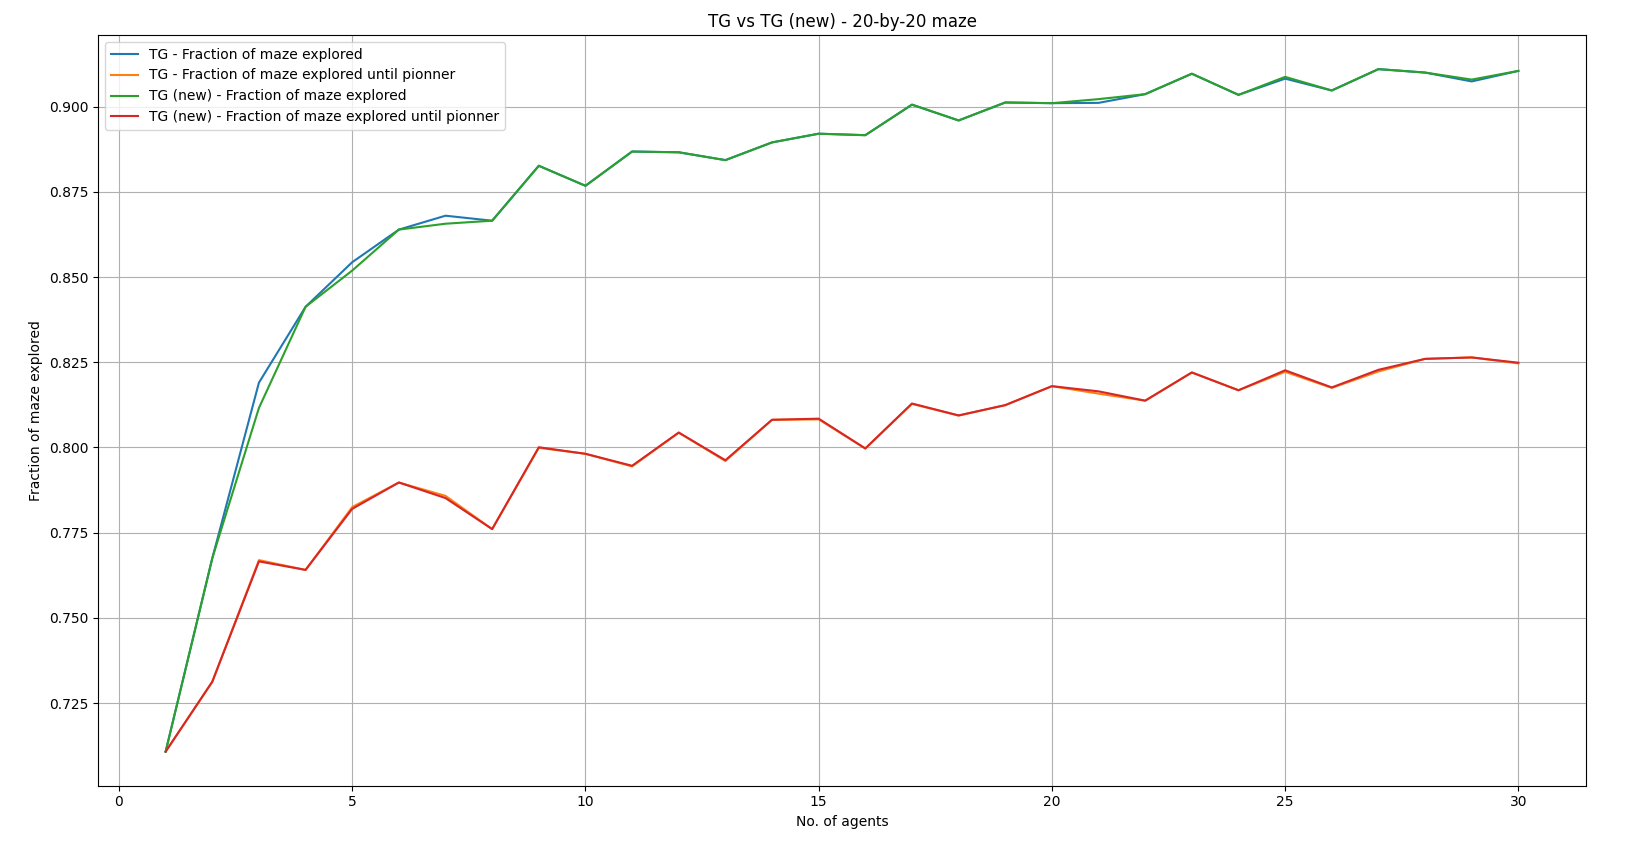
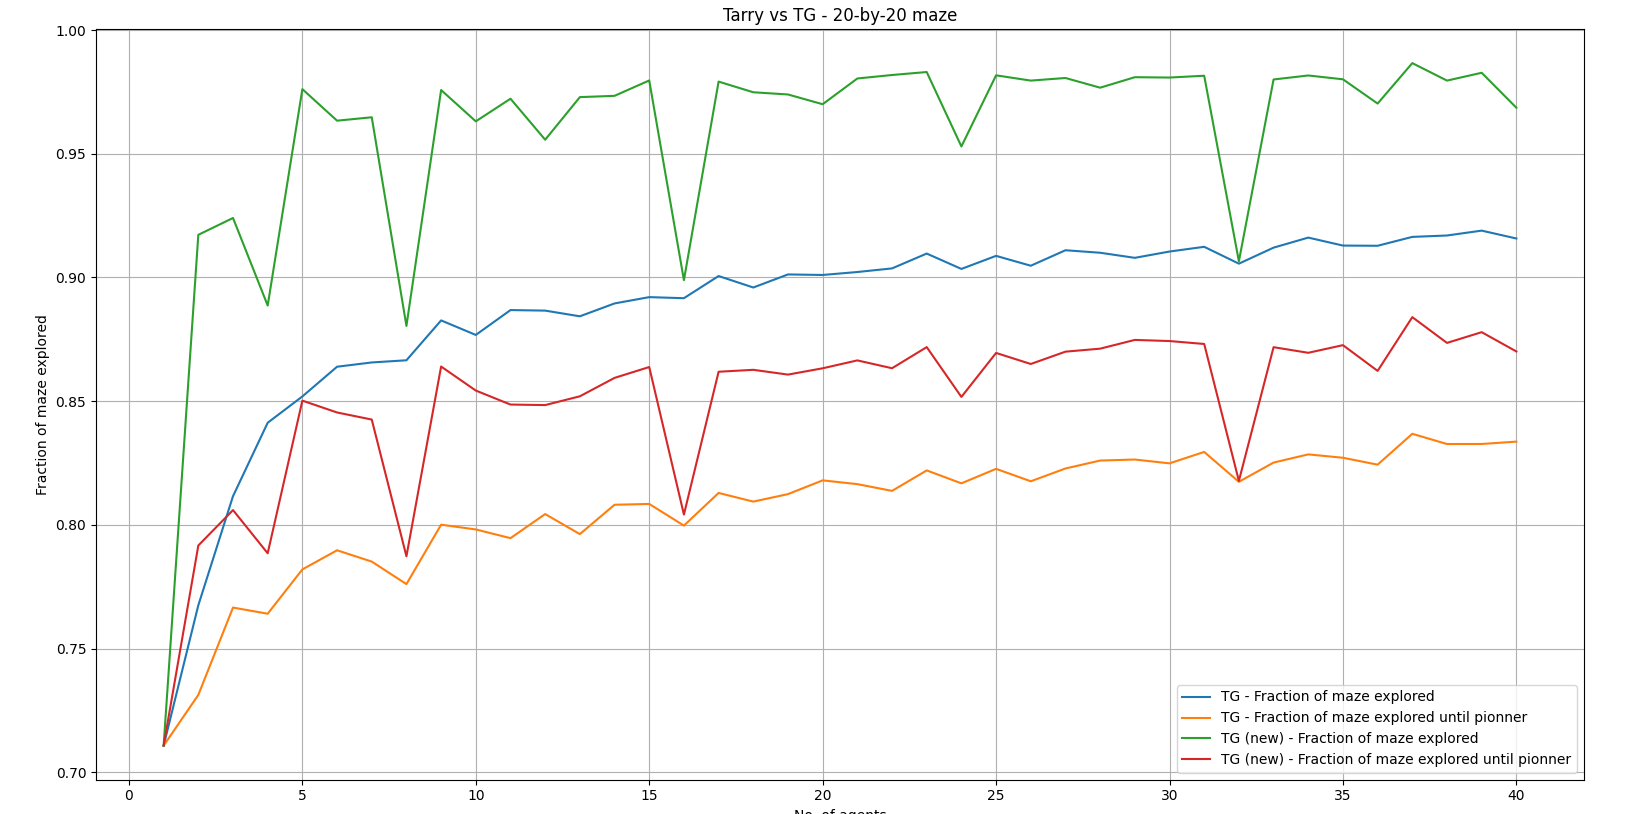
new data

diff --git a/my_results.py b/my_results.py
@@ -2,7 +2,7 @@ import matplotlib.pyplot as plt
 import csv
 
 """ rows = []
-with open("tarry_1to30agents_250iterations_20x20.csv", "r") as f:
+with open("tarry_1to40agents_250iterations_40x40.csv", "r") as f:
     csvreader = csv.reader(f)
 
     for row in csvreader:
@@ -17,7 +17,7 @@ tarry_stdev_row = rows[4]
 tarry_steps_from_first_to_last_row = rows[5] """
 
 rows = []
-with open("my_1to30agents_250iterations_20x20_v2.csv", "r") as f:
+with open("my_1to40agents_250iterations_40x40.csv", "r") as f:
     csvreader = csv.reader(f)
 
     for row in csvreader:
@@ -32,7 +32,7 @@ my_fraction_pionner = rows[5]
 header = rows[0]
 
 rows = []
-with open("my_1to30agents_250iterations_20x20_v3.csv", "r") as f:
+with open("my_1to40agents_250iterations_40x40_v2.csv", "r") as f:
     csvreader = csv.reader(f)
 
     for row in csvreader:
@@ -51,28 +51,30 @@ plt.plot(header, tarry_pionner_steps_row, label = "TARRY: Pionner's average of s
 plt.plot(header, my_pionner_steps_row, label = "TG: Pionner's average of steps") """
 
 """ plt.plot(header, tarry_fraction_row, label = "TARRY: Fraction of maze explored")
-plt.plot(header, my_fraction_row, label = "TG: Fraction of maze explored")
+#plt.plot(header, my_fraction_row, label = "TG: Fraction of maze explored")
 plt.plot(header, my_fraction_pionner, label = "TG: Fraction of maze explored until pionner") """
 
-plt.plot(header, my_steps_row, label = "TG - Average of steps")
+""" plt.plot(header, my_steps_row, label = "TG - Average of steps")
 plt.plot(header, my_pionner_steps_row, label = "TG - Pionner's average of steps")
 plt.plot(header, my_v2_steps_row, label = "TG (new) - Average of steps")
-plt.plot(header, my_v2_pionner_steps_row, label = "TG (new) - Pionner's average of steps")
+plt.plot(header, my_v2_pionner_steps_row, label = "TG (new) - Pionner's average of steps") """
 
-""" plt.plot(header, my_fraction_row, label = "TG - Fraction of maze explored")
+plt.plot(header, my_fraction_row, label = "TG - Fraction of maze explored")
 plt.plot(header, my_fraction_pionner, label = "TG - Fraction of maze explored until pionner")
 plt.plot(header, my_v2_fraction_row, label = "TG (new) - Fraction of maze explored")
-plt.plot(header, my_v2_fraction_pionner, label = "TG (new) - Fraction of maze explored until pionner") """
+plt.plot(header, my_v2_fraction_pionner, label = "TG (new) - Fraction of maze explored until pionner")
 
 
-""" plt.plot(header, tarry_fraction_row, label = "TARRY: Fraction of maze explored")
-plt.plot(header, tarry_matlab_fraction_row, label = "TARRY (matlab): Fraction of maze explored") """
+""" plt.plot(header, tarry_steps_row, label = "TARRY: Average")
+plt.plot(header, tarry_stdev_row, label = "TARRY: STDEV")
+plt.plot(header, tarry_steps_from_first_to_last_row, label = "TARRY: Average Steps From First to Last")
+#plt.plot(header, tarry_fraction_row, label = "TARRY (matlab): Fraction of maze explored") """
 
 
 plt.xlabel('No. of agents')
-plt.ylabel('No. of steps')
-#plt.ylabel('Fraction of maze explored')
-plt.title('TG vs TG (new) - 20-by-20 maze')
+#plt.ylabel('No. of steps')
+plt.ylabel('Fraction of maze explored')
+plt.title('Tarry vs TG - 40-by-40 maze')
 
 plt.grid()
 plt.legend()

diff --git a/my.py b/my.py
@@ -757,7 +757,7 @@ for i in range(1, 41):
         m=maze(numOfLines,numOfColumns)
 
         # Create a maze
-        m.CreateMaze(theme='light', loadMaze='mazes/20_by_20/maze_20x20__' + str(j+1) + '.csv')
+        m.CreateMaze(theme='light', loadMaze='mazes/40_by_40/maze_40x40__' + str(j+1) + '.csv')
         #m.CreateMaze(theme='light', loadMaze='testperfect3.csv')
         #m.CreateMaze(loopPercent=0,theme='light')
         #m.CreateMaze(loopPercent=0,theme='light', saveMaze=True)
@@ -807,7 +807,7 @@ for i in range(1, 41):
     fraction_row.append(averageOfFraction)
     stdev_row.append(stdev)
 
-with open("my_1to40agents_250iterations_20x20_v2.csv", "w") as f:
+with open("my_1to40agents_250iterations_40x40_v2.csv", "w") as f:
     writer = csv.writer(f)
 
     writer.writerow(header)
